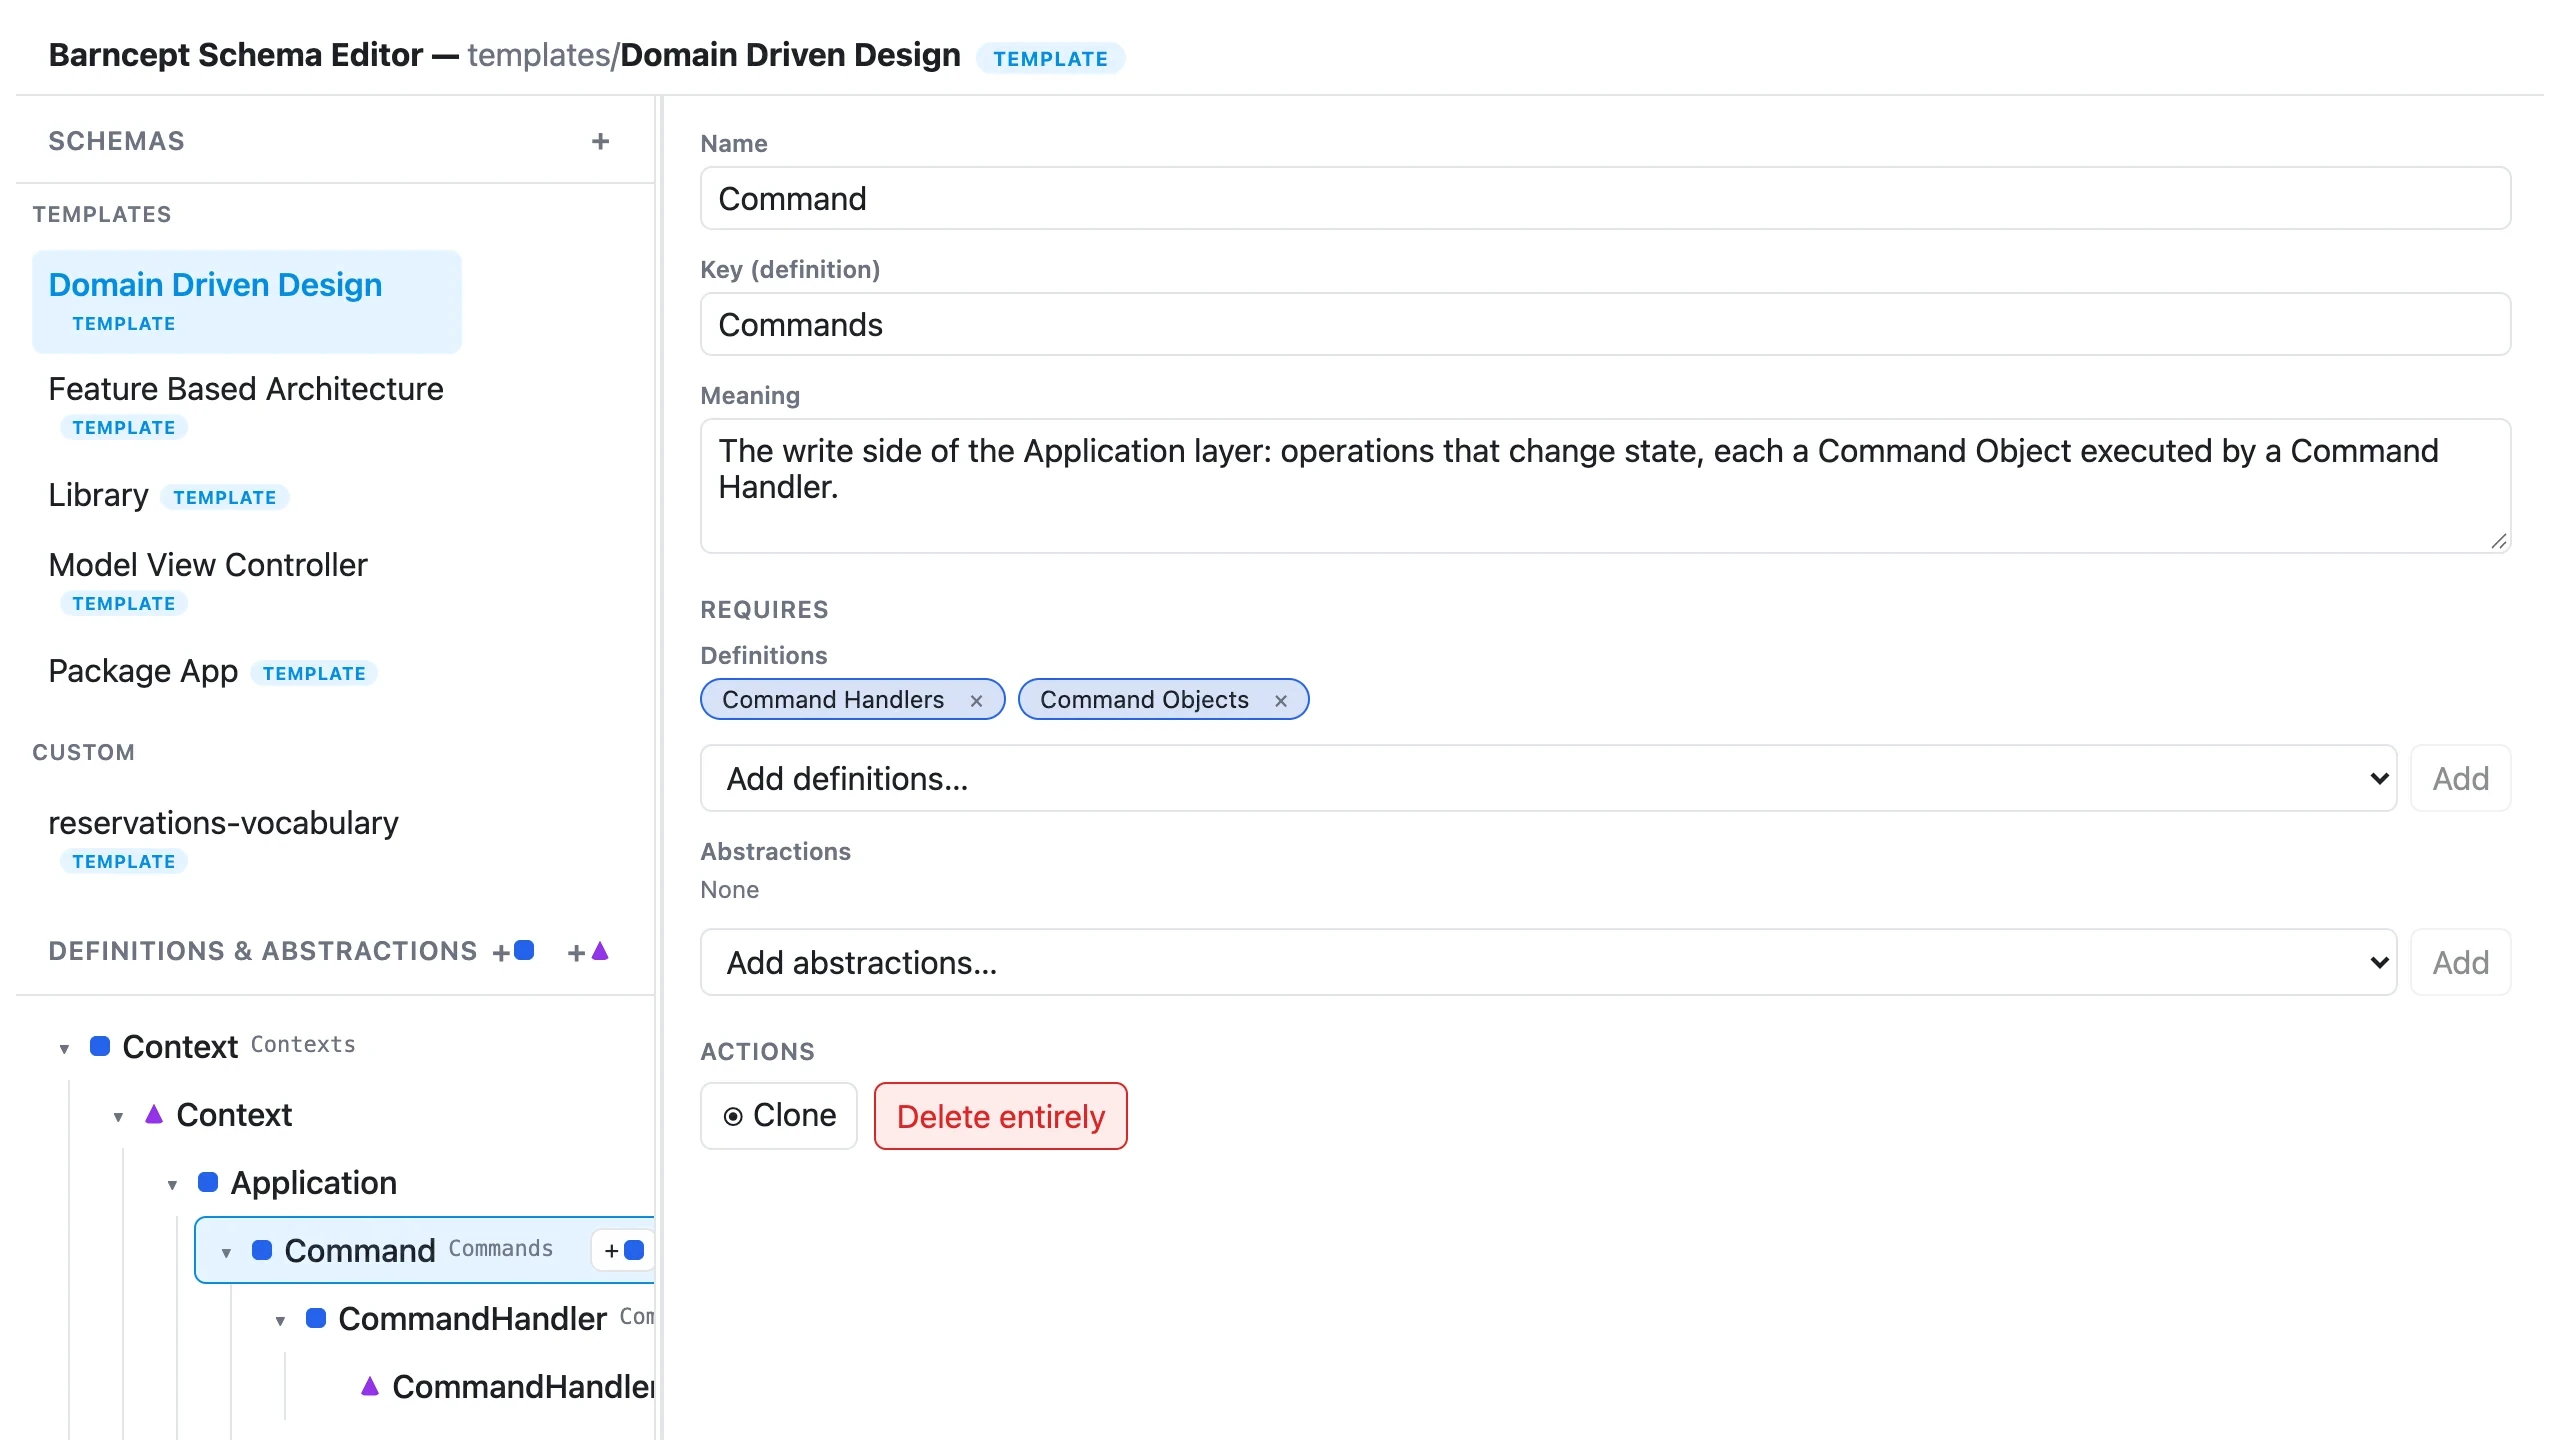
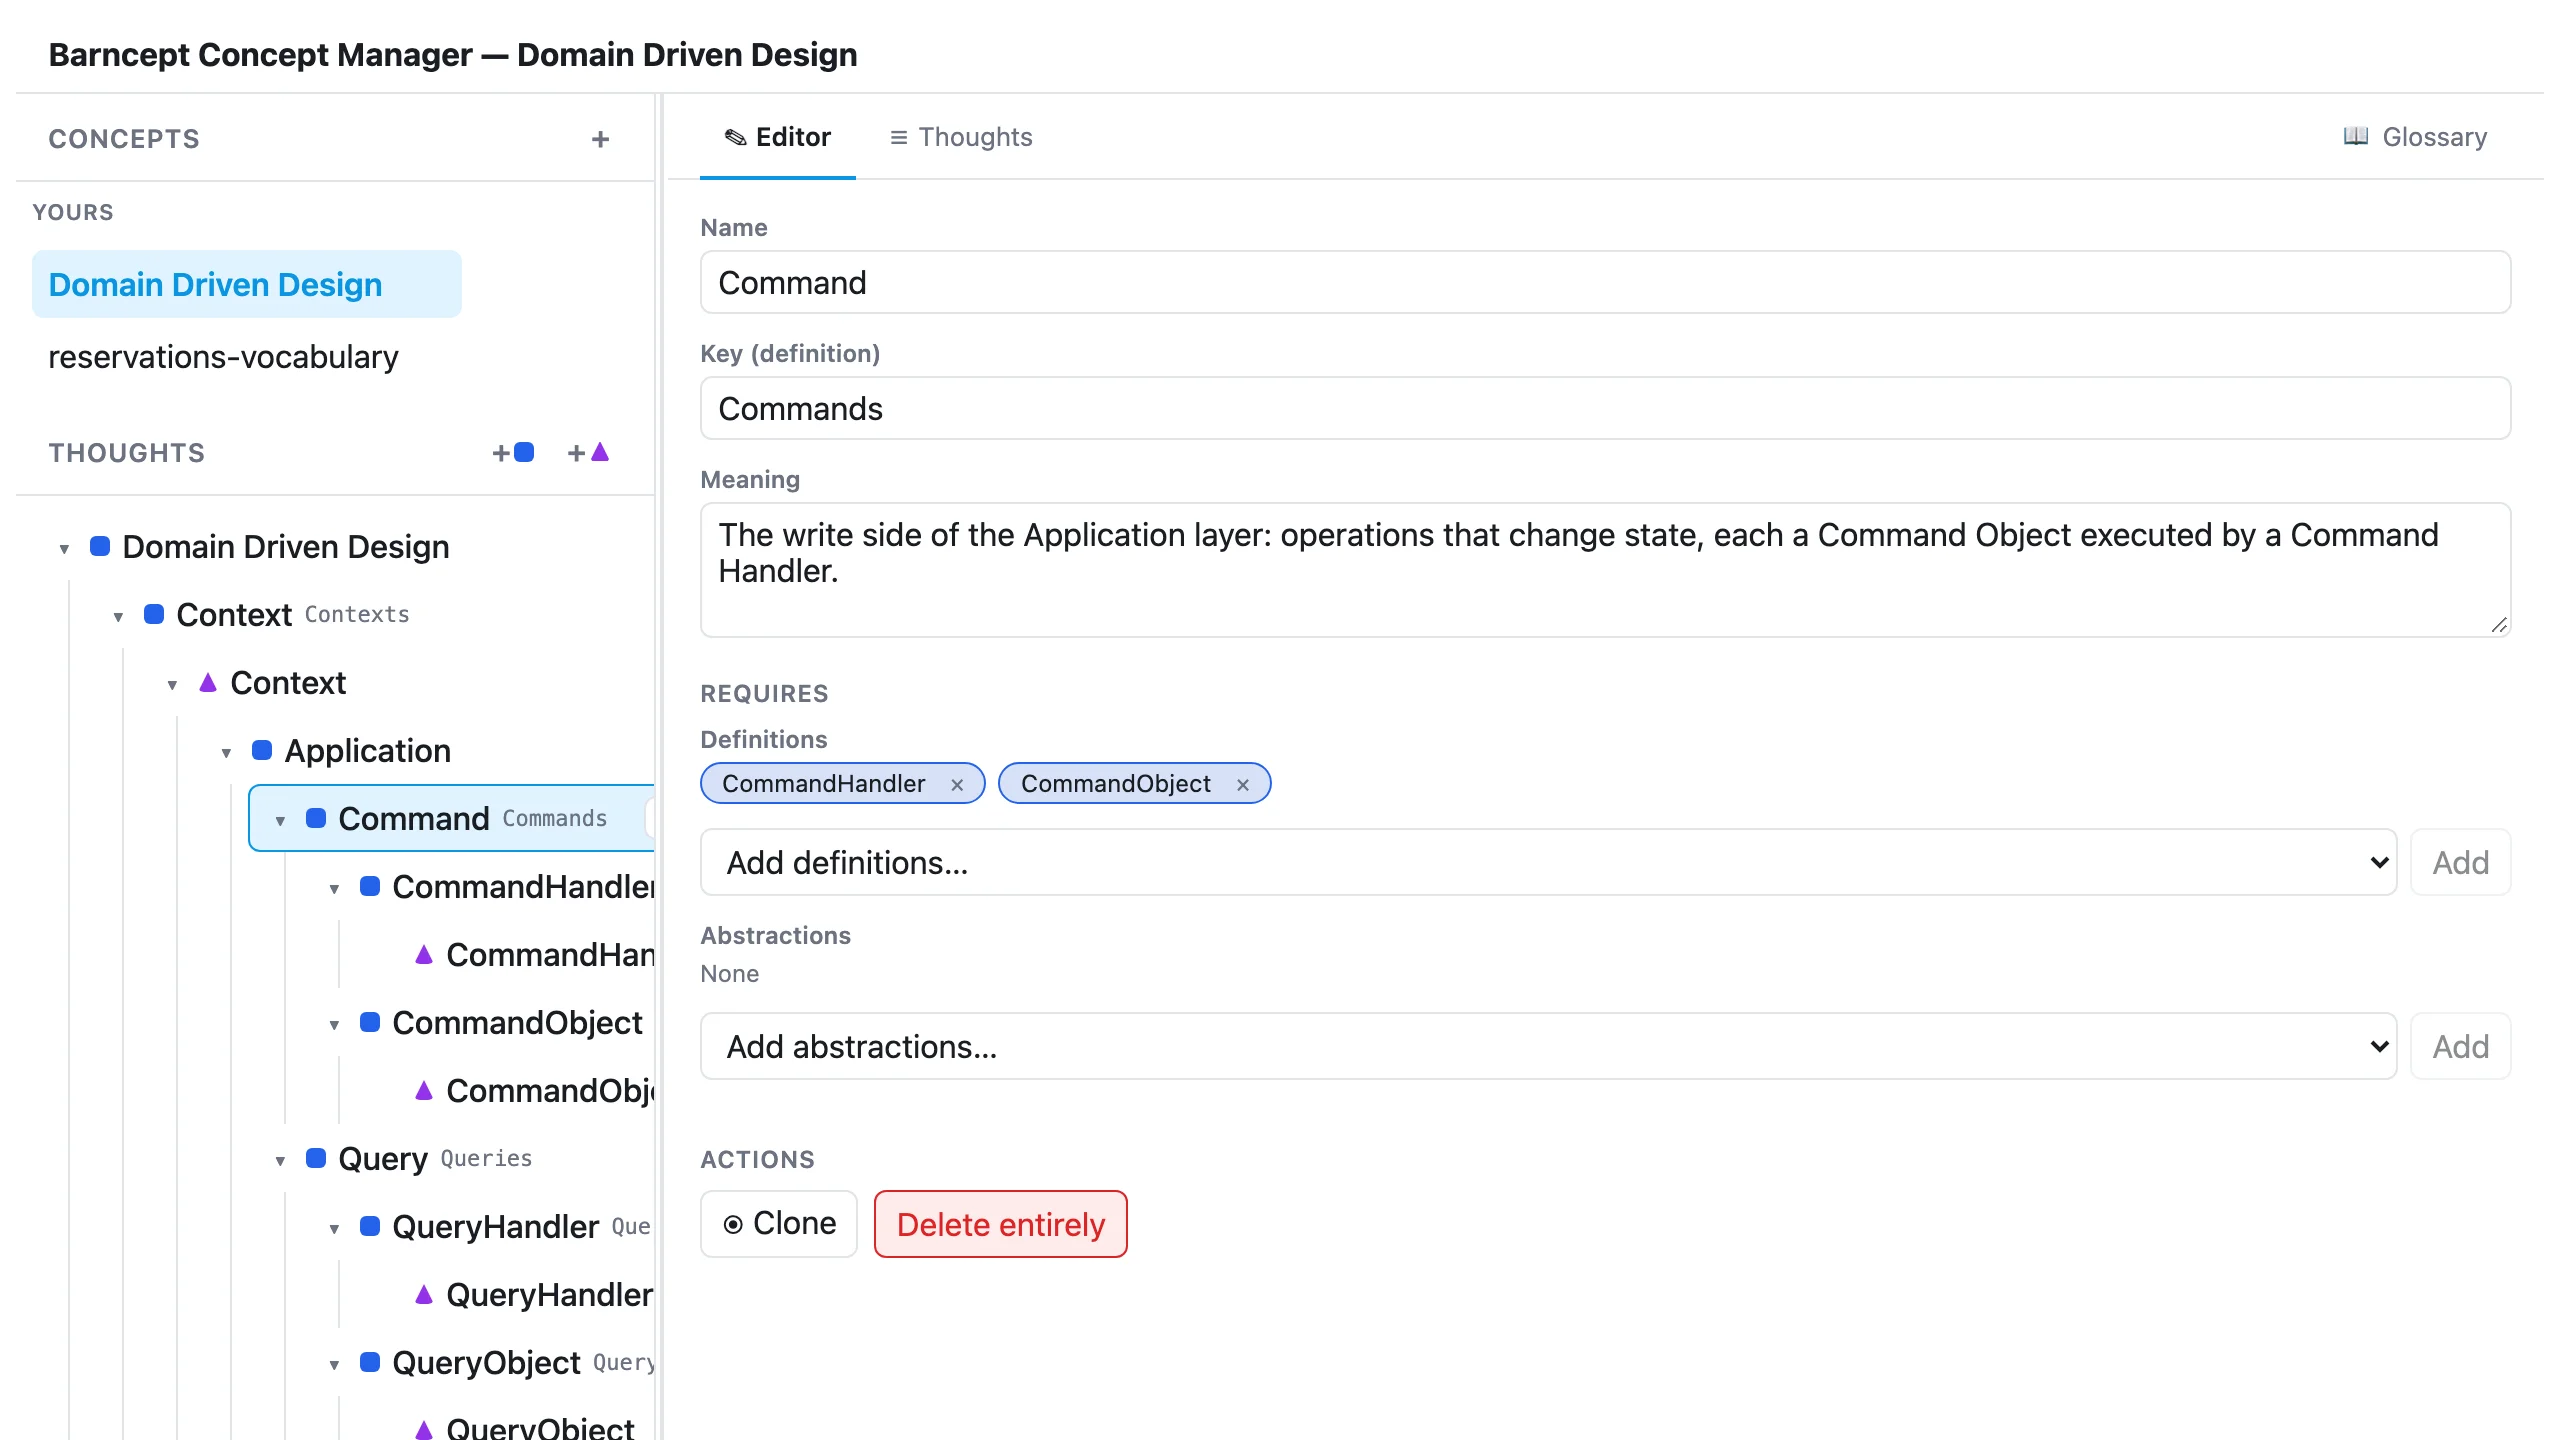
Barncept page: Concepts and Thoughts
Lead with the pitch (come up with a concept, fill it with your thoughts,
reuse those concepts in bigger concepts), explain Concept and Thought in
place of Framing, and retake both Barncept screenshots in the Concept
Manager.

diff --git a/barncept.html b/barncept.html
@@ -4,7 +4,7 @@
   <meta charset="utf-8">
   <meta name="viewport" content="width=device-width, initial-scale=1">
   <title>Barncept · Barn</title>
-  <meta name="description" content="Barncept captures how you understand a domain as a graph of linked concepts, independent of how it is ever built.">
+  <meta name="description" content="Come up with a concept, fill it with your thoughts, then reuse those concepts in bigger concepts. Barncept keeps how you understand a domain, independent of how it is ever built.">
   <link rel="icon" href="assets/barncept.svg" type="image/svg+xml">
   <link rel="stylesheet" href="assets/site.css">
 </head>
@@ -30,7 +30,7 @@
       <div class="wrap">
         <span class="eyebrow"><svg class="mark" viewBox="0 0 24 24" fill="currentColor" aria-hidden="true"><path d="M12 6 6 17M12 6l6 11M6 17h12" stroke="currentColor" stroke-width="2" fill="none"/><circle cx="12" cy="5.5" r="3"/><circle cx="5.5" cy="17.5" r="3"/><circle cx="18.5" cy="17.5" r="3"/></svg>Barncept</span>
         <h1>Your understanding <span class="accent">outlives your code</span>.</h1>
-        <p class="lede">Code is rewritten, frameworks come and go, folders get reshuffled. What lasts is how you understand the domain. Barncept captures that understanding as a graph of linked concepts, each with a plain meaning, so it can be realised in any way you like.</p>
+        <p class="lede">Code is rewritten, frameworks come and go, folders get reshuffled. What lasts is how you understand the domain. With Barncept you <strong>come up with a concept, fill it with your thoughts, then reuse those concepts in bigger concepts</strong>. Every thought has a plain meaning, so the whole can be realised in any way you like.</p>
         <div class="actions">
           <a class="btn" href="#get-started">Get started</a>
           <a class="btn ghost" href="#deeper">Go deeper</a>
@@ -38,8 +38,8 @@
       </div>
       <div class="wrap wide hero-shot">
         <figure class="shot">
-          <div class="shot-bar" aria-hidden="true"><i></i><i></i><i></i><span>Barncept · Framing editor</span></div>
-          <img src="assets/screens/cept-vocab.webp" width="1280" height="720" alt="The Barncept framing editor showing a hotel's reservations vocabulary as a tree of concepts. The selected concept, booking, means a guest's hold on a room for a run of nights, and is linked to the facts is confirmed and has been cancelled.">
+          <div class="shot-bar" aria-hidden="true"><i></i><i></i><i></i><span>Barncept · Concept Manager</span></div>
+          <img src="assets/screens/cept-vocab.webp" width="1280" height="720" alt="The Barncept Concept Manager showing a hotel's reservations vocabulary as a tree of thoughts. The selected thought, booking, means a guest's hold on a room for a run of nights, and requires the facts is confirmed and has been cancelled.">
         </figure>
       </div>
     </section>
@@ -49,8 +49,8 @@
         <div class="feature">
           <div>
             <span class="kicker">Meaning first</span>
-            <h2>Concepts that explain themselves.</h2>
-            <p>Every concept has a name and <strong>a meaning written in plain words</strong>, and it’s linked to the concepts it depends on. Months later, anyone can open the graph and understand not just what exists, but what each thing is for. Each framing’s <strong>Glossary</strong> puts every term and its meaning on one page, so a newcomer, or an AI agent, can learn the vocabulary in one read.</p>
+            <h2>Thoughts that explain themselves.</h2>
+            <p>Every thought in a concept has a name and <strong>a meaning written in plain words</strong>, and it’s linked to the thoughts it depends on. Months later, anyone can open the graph and understand not just what exists, but what each thing is for. Each concept’s <strong>Glossary</strong> puts every term and its meaning on one page, so a newcomer, or an AI agent, can learn the vocabulary in one read.</p>
           </div>
           <figure class="panel" style="margin: 0">
             <svg viewBox="0 0 490 300" role="img" aria-labelledby="graph-title" style="display: block; width: 100%; height: auto">
@@ -96,7 +96,7 @@
             <h2>The words your stories use, organised.</h2>
             <p>The people, things and actions in your <a href="barnspec.html">Barnspec</a> stories can be exported as a concept graph in one step. The business’s own vocabulary becomes something you can see whole, reorganise and build on, rather than words scattered across tickets.</p>
           </div>
-          <div class="panel" aria-label="Concepts exported from a hotel's reservation stories">
+          <div class="panel" aria-label="Thoughts exported from a hotel's reservation stories">
             <p class="muted" style="margin-bottom: 14px">Exported from a hotel’s reservation stories</p>
             <ul class="examples" style="margin-top: 0">
               <li><strong>guest</strong><span class="state">choosing and securing somewhere to stay</span></li>
@@ -120,8 +120,8 @@
           </div>
           <figure>
             <div class="shot">
-              <div class="shot-bar" aria-hidden="true"><i></i><i></i><i></i><span>Barncept · Framing editor</span></div>
-              <img src="assets/screens/cept-editor.webp" width="1280" height="720" alt="The Barncept editor open on the Domain Driven Design architecture template, with the Command concept selected and its meaning shown.">
+              <div class="shot-bar" aria-hidden="true"><i></i><i></i><i></i><span>Barncept · Concept Manager</span></div>
+              <img src="assets/screens/cept-editor.webp" width="1280" height="720" alt="The Barncept Concept Manager open on the Domain Driven Design architecture template, with the Command thought selected and its meaning shown.">
             </div>
             <figcaption>An architecture template is a concept graph too.</figcaption>
           </figure>
@@ -138,10 +138,10 @@
         </div>
         <div class="deeper">
           <details>
-            <summary><span>The three kinds of concept<small>Definitions, Abstractions and Implementations</small></span></summary>
+            <summary><span>The three kinds of thought<small>Definitions, Abstractions and Implementations</small></span></summary>
             <div class="body">
               <ul>
-                <li><strong>Definition</strong>: a concept that can require other concepts beneath it, such as <code>Application</code> or <code>Domain</code>.</li>
+                <li><strong>Definition</strong>: a thought that can require other thoughts beneath it, such as <code>Application</code> or <code>Domain</code>.</li>
                 <li><strong>Abstraction</strong>: a role that concrete things fulfil, such as <code>Aggregate</code> or <code>Command</code>.</li>
                 <li><strong>Implementation</strong>: a concrete thing that fulfils one Abstraction, such as <code>Basket</code> fulfilling <code>Aggregate</code>.</li>
               </ul>
@@ -149,9 +149,9 @@
             </div>
           </details>
           <details>
-            <summary><span>Framings, blank and settled<small>Portable vocabulary, and the things that use it</small></span></summary>
+            <summary><span>Concepts, blank and settled<small>Portable vocabulary, and the things that use it</small></span></summary>
             <div class="body">
-              <p>A <strong>framing</strong> is a way of seeing something: one graph of concepts. A framing with every role still open is a <strong>blank</strong> plan, a reusable vocabulary. Once Implementations fill its roles it is <strong>settled</strong>, and can be resolved from an entry point into a concrete, named tree. One framing can borrow another whole, so a vocabulary is written once and reused. A bad framing fails loudly, naming the missing reference or the cycle it found.</p>
+              <p>A <strong>concept</strong> is a broad, structured collection of thoughts about one thing, kept as one file. A concept with every role still open is a <strong>blank</strong> plan, a reusable vocabulary. Once Implementations fill its roles it is <strong>settled</strong>, and can be resolved from an entry point into a concrete, named tree. One concept can borrow another whole, so a vocabulary is written once and reused: a House can borrow the Room concept three times. A bad concept fails loudly, naming the missing reference or the cycle it found.</p>
 <pre><code>Root
 |
 +--Application
@@ -167,11 +167,11 @@
             </div>
           </details>
           <details>
-            <summary><span>From PHP<small>Framings are plain arrays or JSON</small></span></summary>
+            <summary><span>From PHP<small>Concepts are plain arrays or JSON</small></span></summary>
             <div class="body">
-<pre><code>$framing  = new FramingFactory()->create($data);
+<pre><code>$concept  = new ConceptFactory()->create($data);
 $instance = new ResolverFactory()->create()
-    ->resolve($framing, $framing->entryPoints()->first());
+    ->resolve($concept, $concept->entryPoints()->first());
 
 echo new PresenterFactory()->create()->present($instance);</code></pre>
             </div>
